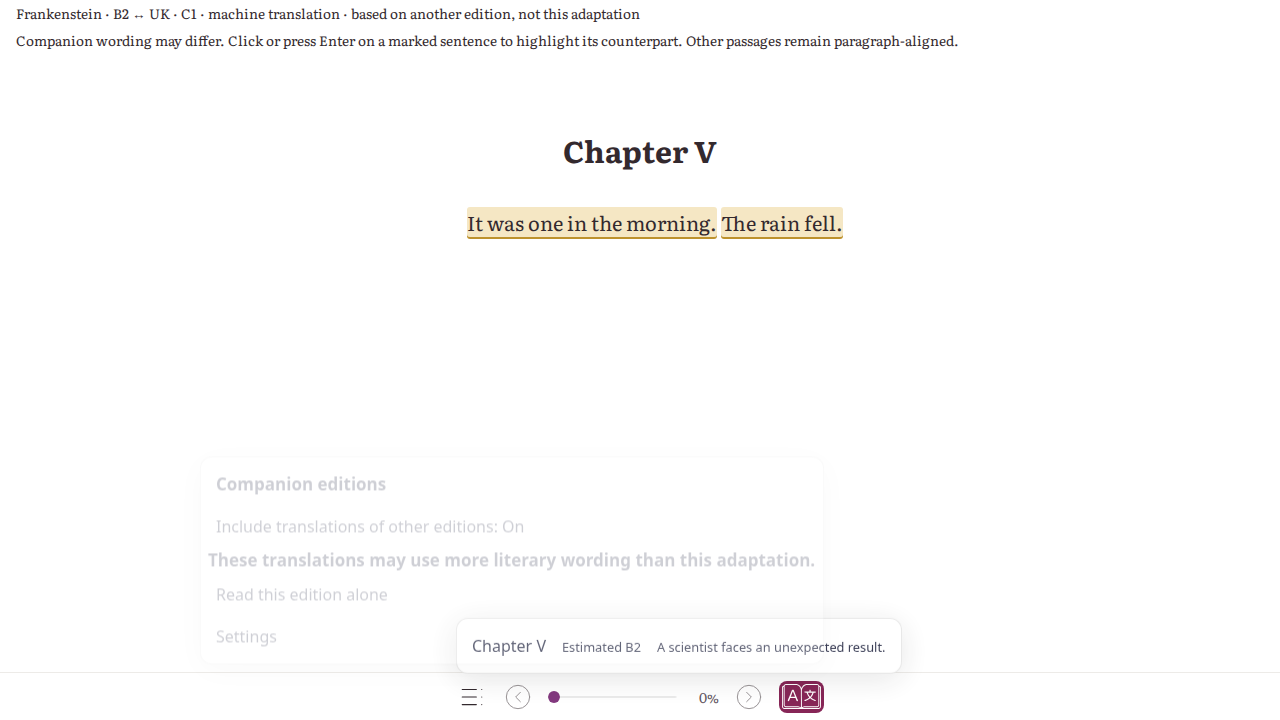
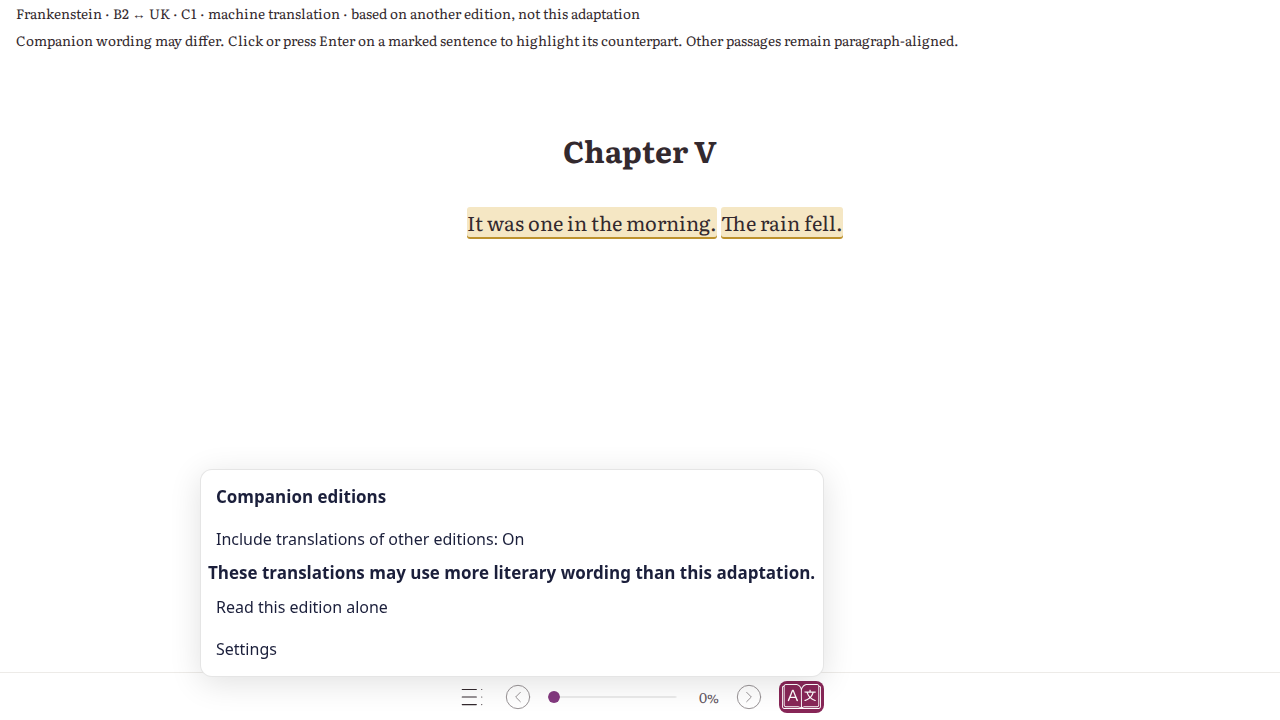
Prevent overlapping chapter and companion menus

diff --git a/e2e/processor-parallel.spec.ts b/e2e/processor-parallel.spec.ts
@@ -48,15 +48,15 @@ test(`selects a ${language} companion and highlights sentence groups in ${mode} 
   await page.getByRole('button', {name: 'Open chapter navigation'}).click();
   await expect(page.getByRole('menuitem').filter({hasText: 'Estimated B2'})).toContainText('A scientist faces an unexpected result.');
   if (language === 'UK') {
-    await page.keyboard.press('Escape');
     await page.locator('app-parallel-translation').click();
+    await expect(page.getByRole('menuitem').filter({hasText: 'Estimated B2'})).not.toBeVisible();
     const toggle = page.getByRole('switch', {name: 'Include translations of other editions:'});
     await expect(toggle).toHaveAttribute('aria-checked', 'true');
-    await page.screenshot({path: testInfo.outputPath(`companion-switch-${mode}-on.png`), fullPage: true});
+    await page.screenshot({path: testInfo.outputPath(`companion-switch-${mode}-on.png`), fullPage: true, animations: 'disabled'});
     await toggle.click();
     await expect(toggle).toHaveAttribute('aria-checked', 'false');
     await expect(page.locator('.parallel-provenance')).toHaveCount(0);
-    await page.screenshot({path: testInfo.outputPath(`companion-switch-${mode}-off.png`), fullPage: true});
+    await page.screenshot({path: testInfo.outputPath(`companion-switch-${mode}-off.png`), fullPage: true, animations: 'disabled'});
   }
 });
 }

diff --git a/src/app/sections/read/reader/reader.component.ts b/src/app/sections/read/reader/reader.component.ts
@@ -156,6 +156,7 @@ export class ReaderComponent implements OnInit, AfterViewInit, OnDestroy, AfterV
   private chapterScrollTimeoutId: ReturnType<typeof setTimeout> | null = null;
   private chapterMeasurementFrameId: number | null = null;
   private chapterNavigationDropdown: TuiDropdownDirective | null = null;
+  private companionNavigationDropdown: TuiDropdownDirective | null = null;
 
   private needsHeightSync = false;
 
@@ -981,8 +982,16 @@ export class ReaderComponent implements OnInit, AfterViewInit, OnDestroy, AfterV
   }
 
   protected toggleChapterNavigation(dropdown: TuiDropdownDirective): void {
+    this.companionNavigationDropdown?.toggle(false);
     this.chapterNavigationDropdown = dropdown;
     dropdown.toggle(!dropdown.ref());
+  }
+
+  protected openCompanionMenu(dropdown: TuiDropdownDirective): void {
+    this.chapterNavigationDropdown?.toggle(false);
+    this.closeParallelSettings();
+    this.companionNavigationDropdown = dropdown;
+    dropdown.toggle(true);
   }
 
   // --- Chapter Navigation ---

diff --git a/src/app/sections/read/reader/reader.component.html b/src/app/sections/read/reader/reader.component.html
@@ -176,7 +176,7 @@
           <div class="parallel">
             <app-parallel-translation
               #langDropdown="tuiDropdown"
-              (click)="langDropdown.toggle(true); $event.stopPropagation()"
+              (click)="openCompanionMenu(langDropdown); $event.stopPropagation()"
               (tuiActiveZoneChange)="!$event && langDropdown.toggle(false)"
               [tuiDropdown]="parallelLangMenu"
               [loading]="isLoadingParallel"
